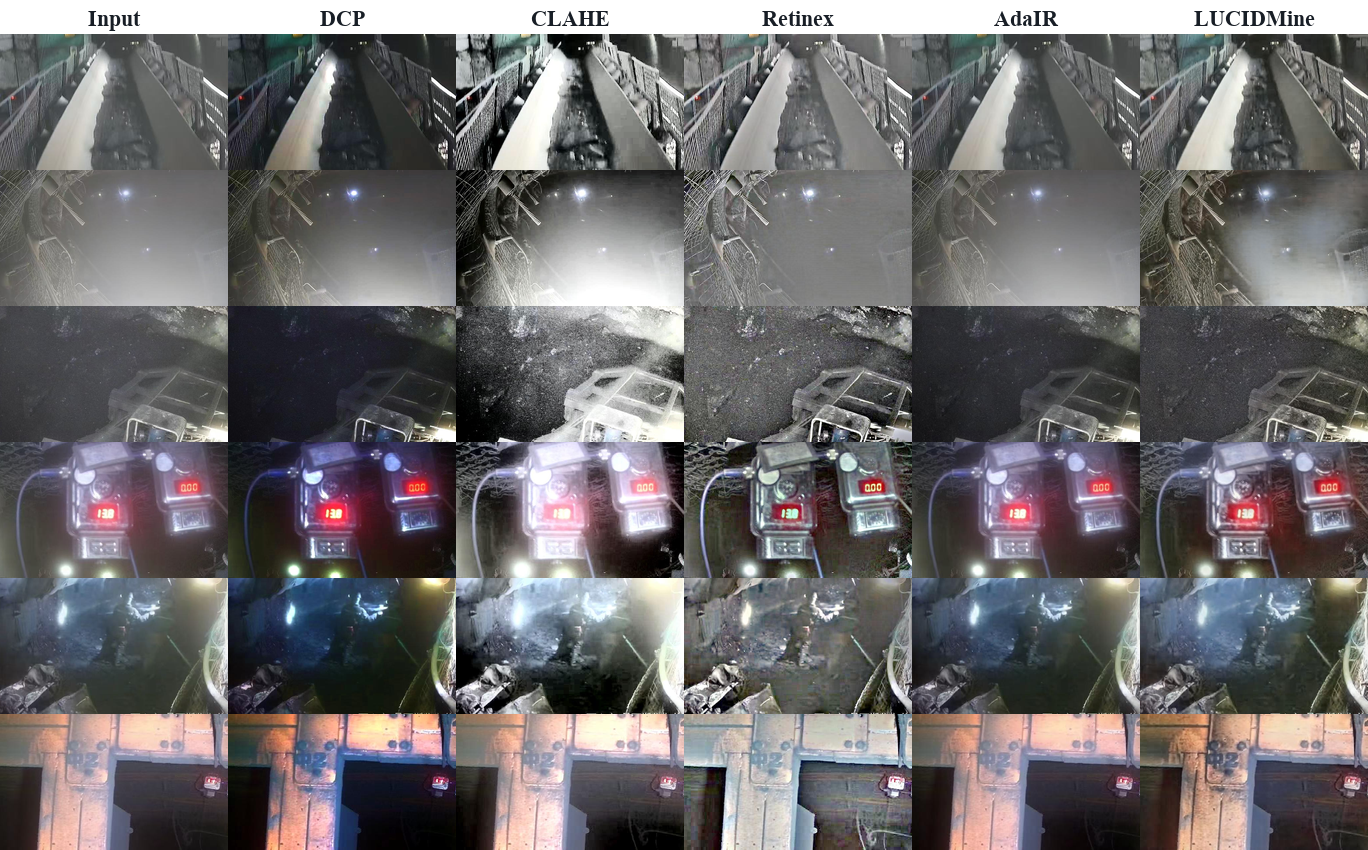
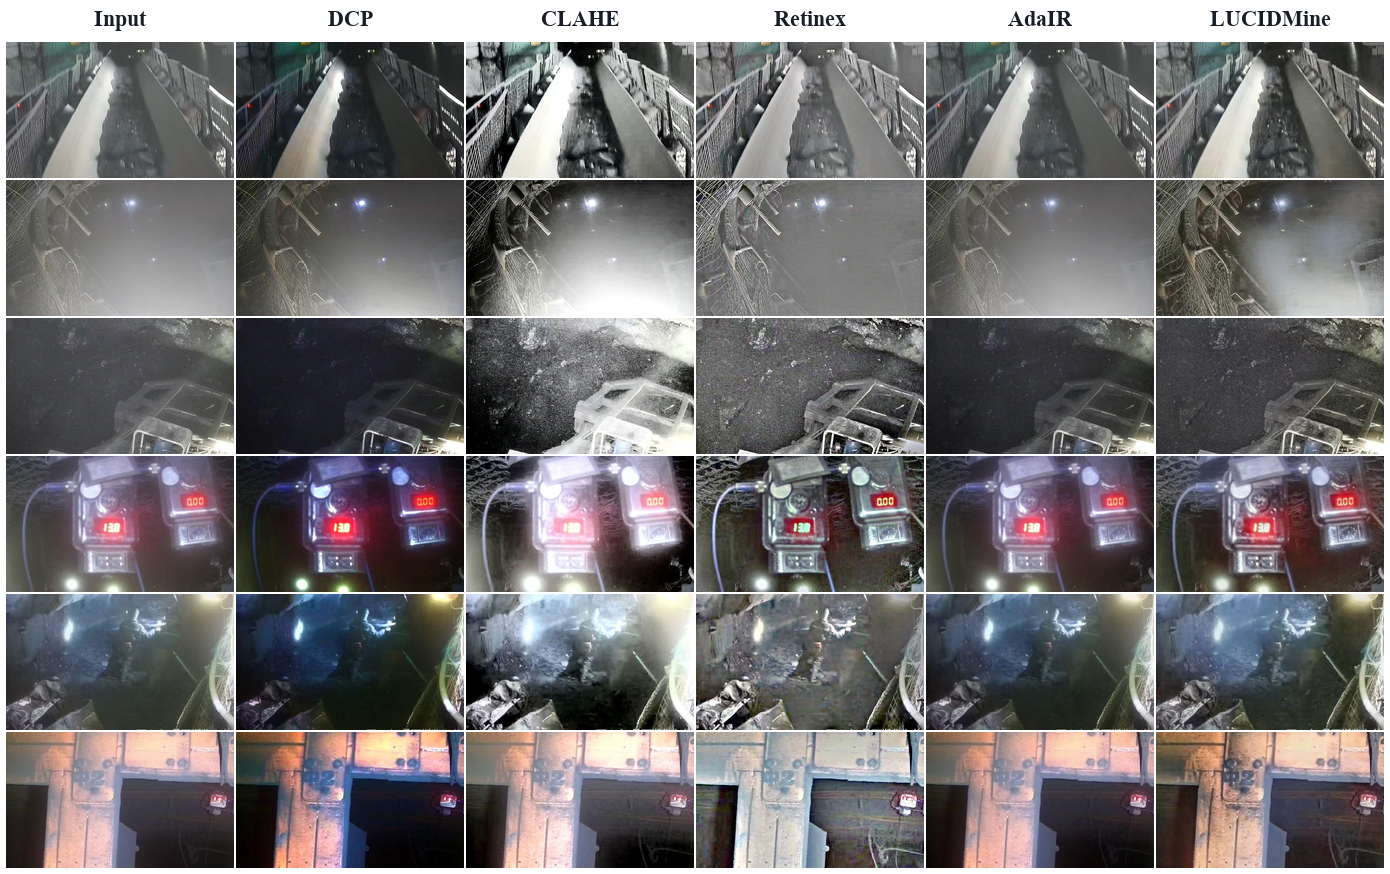
Refine fig6 matrix spacing

Changed region(s): [[0.0, 0.0, 1.0, 1.0], [0.0614, 0.7341, 0.0921, 0.7647]]

diff --git a/figures/gen_fig6_today6_visual_matrix.py b/figures/gen_fig6_today6_visual_matrix.py
@@ -159,14 +159,20 @@ def verify_lucid_outputs() -> None:
 
 def make_matrix() -> Image.Image:
     cell_w, cell_h = 228, 136
-    header_h = 34
-    canvas = Image.new("RGB", (cell_w * len(METHODS), header_h + cell_h * len(SCENES)), "white")
+    gap = 2
+    row_gap = 2
+    margin = 6
+    header_h = 36
+    width = margin * 2 + cell_w * len(METHODS) + gap * (len(METHODS) - 1)
+    height = margin * 2 + header_h + cell_h * len(SCENES) + row_gap * (len(SCENES) - 1)
+    canvas = Image.new("RGB", (width, height), "white")
     draw = ImageDraw.Draw(canvas)
     header_font = font(22, True)
     for col, (label, _) in enumerate(METHODS):
+        x = margin + col * (cell_w + gap)
         bbox = draw.textbbox((0, 0), label, font=header_font)
         draw.text(
-            (col * cell_w + (cell_w - (bbox[2] - bbox[0])) / 2, 6),
+            (x + (cell_w - (bbox[2] - bbox[0])) / 2, margin),
             label,
             font=header_font,
             fill=(24, 30, 38),
@@ -176,7 +182,9 @@ def make_matrix() -> Image.Image:
         for col, (_, key) in enumerate(METHODS):
             path = WORK_DIR / key / scene
             tile = ImageOps.fit(Image.open(path).convert("RGB"), (cell_w, cell_h), method=Image.Resampling.LANCZOS)
-            canvas.paste(tile, (col * cell_w, header_h + row * cell_h))
+            x = margin + col * (cell_w + gap)
+            y = margin + header_h + row * (cell_h + row_gap)
+            canvas.paste(tile, (x, y))
     return canvas
 
 
@@ -193,6 +201,7 @@ def main() -> None:
         "columns": [label for label, _ in METHODS],
         "source": "main branch data images added in commit a59a979/6d5d54c",
         "lucidmine_checkpoint": "experiment/LUCIDMine/modal_run_v2/best.pth from origin/claude/lucidmine-paper-audit-fzyBW",
+        "layout": "Compact white-gutter matrix with 2 px inter-image gaps, matching the narrow-spacing style used by Fig.5.",
     }
     (ROOT / "figure_data" / "fig6_today6_6x6_visual_matrix_manifest.json").write_text(
         json.dumps(manifest, indent=2),